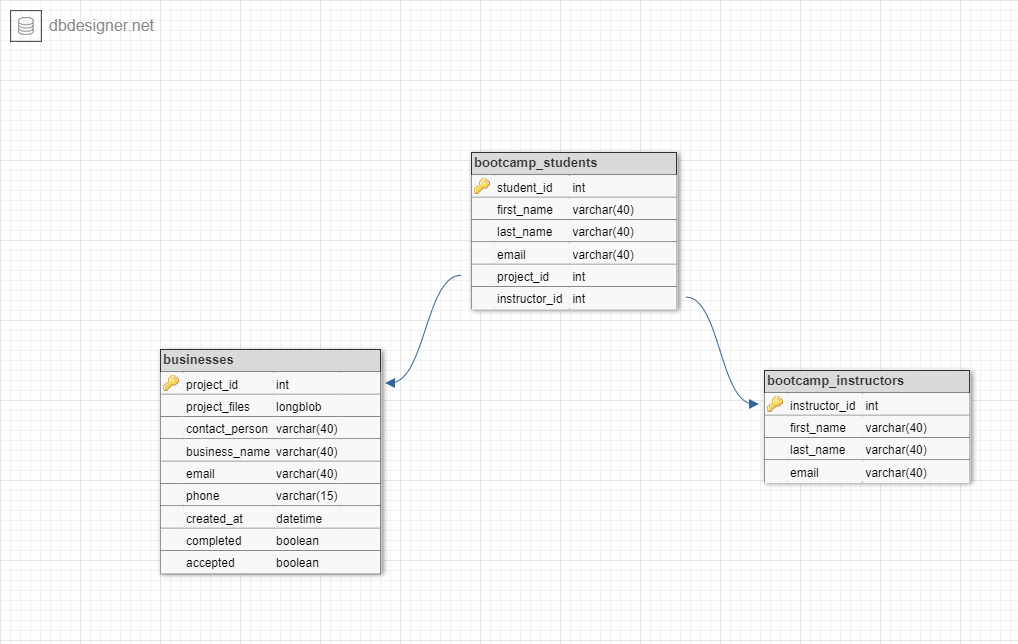
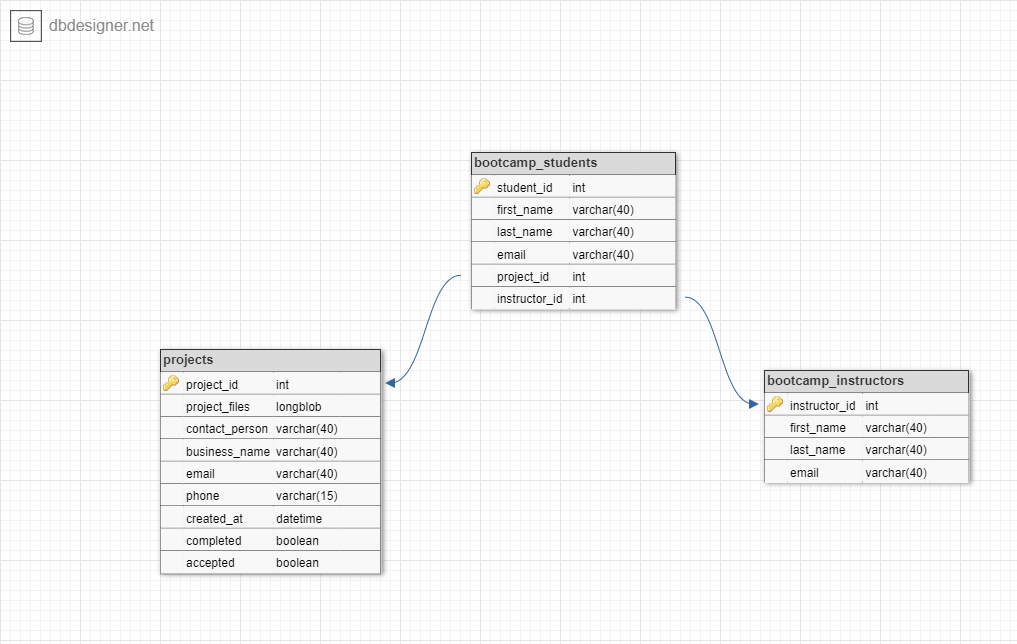
renamed businesses table to projects. changed init_db file to reflect this. updated schema image. began working on projects route to get all projects

diff --git a/routes/businesses.js b/routes/businesses.js
@@ -3,20 +3,24 @@
 // *these modules/dependencies are necessary to set up the route
 var express = require("express");
 var router = express.Router();
-const bodyParser = require("body-parser");
 const db = require("../model/helper");
-
-// parses json sent from the client
-router.use(bodyParser.json());
 
 // for testing setup in Postman
 router.get("/", (req, res) => {
 	res.send("Welcome to the API");
 });
 
+// ****
+// */api is added to all routes
+// ****
+
 /* GET all projects from the businesses table in db. */
-router.get("/", function (req, res, next) {
-	res.send("respond with a resource");
+router.get("/projects", function (req, res, next) {
+	db("SELECT * FROM businesses")
+		.then((results) => {
+			if (results.data.length) res.send(results.data);
+		})
+		.catch((err) => res.status(500).send(err));
 });
 
 module.exports = router;

diff --git a/app.js b/app.js
@@ -17,7 +17,8 @@ app.use(cookieParser());
 app.use(express.static(path.join(__dirname, "public")));
 
 // *rename to match my router files
-app.use("/", businessesRouter);
+//adding /api to every route
+app.use("/api", businessesRouter);
 // app.use("/users", usersRouter);
 
 // catch 404 and forward to error handler
